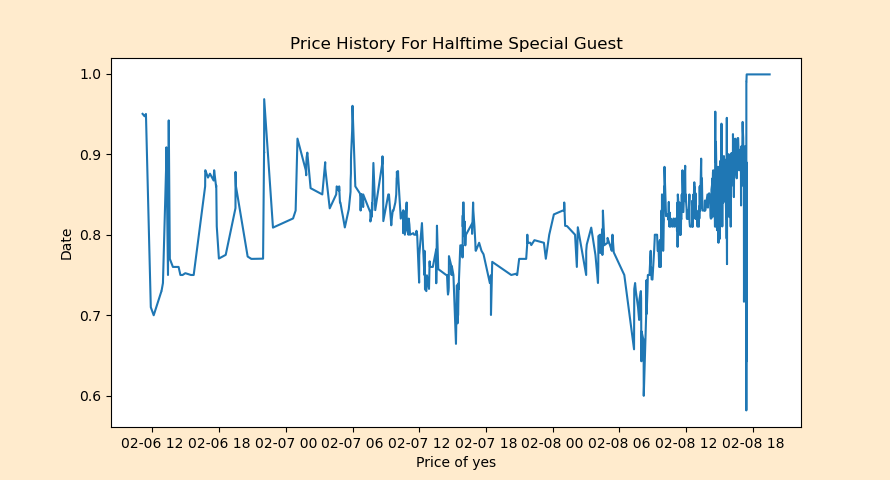
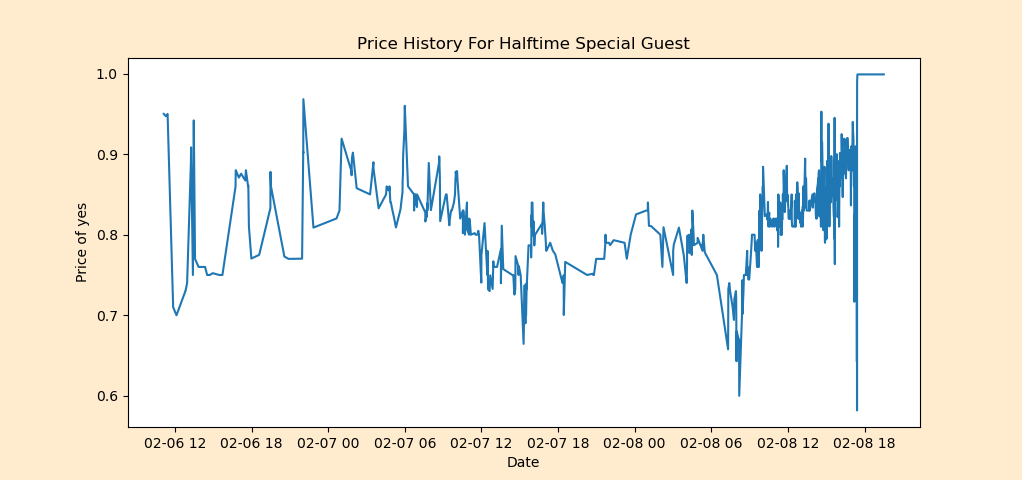
fixed the labels

diff --git a/data-collection/polymarket_api_functions.py b/data-collection/polymarket_api_functions.py
@@ -180,8 +180,8 @@ def plot_price_history(trades_csv,market_name):
         prices_updated.append(price)
     fig = plt.figure(1)
     fig.set_facecolor('#ffebcd')
-    plt.xlabel("Price of yes")
-    plt.ylabel("Date")
+    plt.ylabel("Price of yes")
+    plt.xlabel("Date")
     plt.title(f"Price History For {market_name}")
     plt.plot(timestamp_list,prices_updated)
     plt.show()
